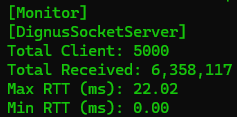
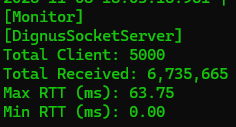
성능 속도 결과 변경

diff --git a/TestClient/Program.cs b/TestClient/Program.cs
@@ -64,7 +64,7 @@ namespace EchoClient
                 {
                     client.Close();
                 }
-                Monitor.Instance.PrintEcho("DignusSocketServer");
+                Monitor.Instance.PrintEcho(ServerName);
             }
 
         }
@@ -101,8 +101,11 @@ namespace EchoClient
             {
                 client.Close();
             }
-            Monitor.Instance.Print("DignusSocketServer");
+            Monitor.Instance.Print(ServerName);
         }
+
+        private const string ServerName = "DignusSocketServer";
+
         static void Main(string[] args)
         {
             LogBuilder.Configuration(LogConfigXmlReader.Load($"{AppContext.BaseDirectory}DignusLog.config"));
@@ -111,8 +114,8 @@ namespace EchoClient
             AppDomain.CurrentDomain.UnhandledException += CurrentDomain_UnhandledException;
 
             ProtocolHandlerMapper<EchoHandler, string>.BindProtocol<SCProtocol>();
-            SingleBechmark();
-            //ServerBechmark();
+            //SingleBechmark();
+            ServerBechmark();
 
             Console.ReadLine();
         }

diff --git a/DignusSocketServer/Program.cs b/DignusSocketServer/Program.cs
@@ -18,7 +18,7 @@ namespace DignusEchoServer
             LogBuilder.Configuration(LogConfigXmlReader.Load($"{AppContext.BaseDirectory}DignusLog.config"));
             LogBuilder.Build();
 
-            var sessionInitializer = new SessionConfiguration(EchoSetupFactory);
+            var sessionInitializer = new SessionConfiguration(PacketHandlerSetupFactory);
             sessionInitializer.SocketOption.SendBufferSize = 65536;
             sessionInitializer.SocketOption.MaxPendingSendBytes = int.MaxValue;
             EchoServer echoServer = new(sessionInitializer);
@@ -38,7 +38,7 @@ namespace DignusEchoServer
         {
             EchoHandler handler = new();
 
-            PacketSerializer packetSerializer = new(handler);
+            PacketProcessor packetSerializer = new(handler);
 
             return new SessionSetup(
                     packetSerializer,

diff --git a/DignusSocketServer/Handler/EchoHandler.cs b/DignusSocketServer/Handler/EchoHandler.cs
@@ -18,13 +18,13 @@ namespace DignusEchoServer.Handler
         public void Process(EchoMessage echo)
         {
             var body = JsonSerializer.Serialize(echo);
-            _session.Send(new Packet((int)SCProtocol.EchoMessageResponse, body));
+            _session.SendAsync(new Packet((int)SCProtocol.EchoMessageResponse, body));
         }
 
         public void OtherMessage(OtherMessage otherMessage)
         {
             var body = JsonSerializer.Serialize(otherMessage);
-            _session.Send(new Packet((int)SCProtocol.OtherMessageResponse, body));
+            _session.SendAsync(new Packet((int)SCProtocol.OtherMessageResponse, body));
         }
 
         public void SetSession(ISession session)

diff --git a/DignusSocketServer/Processor/PacketProcessor.cs b/DignusSocketServer/Processor/PacketProcessor.cs
@@ -8,7 +8,7 @@ using System.Text;
 
 namespace DignusEchoServer.Serializer
 {
-    internal class PacketSerializer(EchoHandler echoHandler) : PacketHandlerBase, IPacketSerializer
+    internal class PacketProcessor(EchoHandler echoHandler) : PacketHandlerBase, IPacketSerializer
     {
         private const int HeaderSize = sizeof(int) * 2;
         private const int SizeToInt = sizeof(int);

diff --git a/TestClient/Handler/EchoHandler.cs b/TestClient/Handler/EchoHandler.cs
@@ -59,7 +59,7 @@ namespace EchoClient.Handler
             });
 
             _lastSendTime = DateTime.UtcNow;
-            session.Send(new Packet((int)CSProtocol.EchoMessage, body));
+            session.SendAsync(new Packet((int)CSProtocol.EchoMessage, body));
         }
         public void SetSession(ISession session)
         {

diff --git a/README.md b/README.md
@@ -61,8 +61,8 @@ https://www.nuget.org/packages/Dignus.Sockets
 | 항목 | DignusSocketServer | DotNetty | SuperSocket 2.0 |
 |:---|:---|:---|:---|
 | Total Clients | 5000 | 5000 | 5000 |
-| Total Received | 6,358,117 | 5,426,823 | 3,191,922 |
-| Max RTT (ms) | 22.02 | 67.61 | 11.72 |
+| Total Received | 6,735,665 | 5,426,823 | 3,191,922 |
+| Max RTT (ms) | 63.75 | 67.61 | 11.72 |
 | Min RTT (ms) | 0.00 | 0.00 | 0.00 |
 
 ---
@@ -72,8 +72,8 @@ https://www.nuget.org/packages/Dignus.Sockets
 | 항목 | DignusSocketServer | DotNetty | SuperSocket 2.0 |
 |:---|:---|:---|:---|
 | Total Clients | 5000 | 5000 | 5000 |
-| Total Received | 6,607,902 | 5,836,706 | 3,223,877 |
-| Max RTT (ms) | 14.99 | 77.93 | 11.17 |
+| Total Received | 6,921,356 | 5,836,706 | 3,223,877 |
+| Max RTT (ms) | 23.55 | 77.93 | 11.17 |
 | Min RTT (ms) | 0.00 | 0.00 | 0.01 |
 
 ---
@@ -83,8 +83,8 @@ https://www.nuget.org/packages/Dignus.Sockets
 | 항목 | DignusSocketServer (초기) | DignusSocketServer (웜업 후) | DotNetty (초기) | DotNetty (웜업 후) | SuperSocket 2.0 (초기) | SuperSocket 2.0 (웜업 후) |
 |:---|:---|:---|:---|:---|:---|:---|
 | Total Clients | 5000 | 5000 | 5000 | 5000 | 5000 | 5000 |
-| Total Received | 6,358,117 | 6,607,902 | 5,426,823 | 5,836,706 | 3,191,922 | 3,223,877 |
-| Max RTT (ms) | 22.02 | 14.99 | 67.61 | 77.93 | 11.72 | 11.17 |
+| Total Received | 6,735,665 | 6,921,356 | 5,426,823 | 5,836,706 | 3,191,922 | 3,223,877 |
+| Max RTT (ms) | 63.75 | 23.55 | 67.61 | 77.93 | 11.72 | 11.17 |
 | Min RTT (ms) | 0.00 | 0.00 | 0.00 | 0.00 | 0.00 | 0.01 |
 
 ---
@@ -149,8 +149,8 @@ It is designed to be lightweight, efficient, and easily extensible.
 | Item | DignusSocketServer | DotNetty | SuperSocket 2.0 |
 |:---|:---|:---|:---|
 | Total Clients | 5000 | 5000 | 5000 |
-| Total Received | 6,358,117 | 5,426,823 | 3,191,922 |
-| Max RTT (ms) | 22.02 | 67.61 | 11.72 |
+| Total Received | 6,735,665 | 5,426,823 | 3,191,922 |
+| Max RTT (ms) | 63.75 | 67.61 | 11.72 |
 | Min RTT (ms) | 0.00 | 0.00 | 0.00 |
 
 ---
@@ -160,8 +160,8 @@ It is designed to be lightweight, efficient, and easily extensible.
 | Item | DignusSocketServer | DotNetty | SuperSocket 2.0 |
 |:---|:---|:---|:---|
 | Total Clients | 5000 | 5000 | 5000 |
-| Total Received | 6,607,902 | 5,836,706 | 3,223,877 |
-| Max RTT (ms) | 14.99 | 77.93 | 11.17 |
+| Total Received | 6,921,356 | 5,836,706 | 3,223,877 |
+| Max RTT (ms) | 23.55 | 77.93 | 11.17 |
 | Min RTT (ms) | 0.00 | 0.00 | 0.01 |
 
 ---
@@ -171,8 +171,8 @@ It is designed to be lightweight, efficient, and easily extensible.
 | Item | DignusSocketServer (Cold) | DignusSocketServer (Warm-up) | DotNetty (Cold) | DotNetty (Warm-up) | SuperSocket 2.0 (Cold) | SuperSocket 2.0 (Warm-up) |
 |:---|:---|:---|:---|:---|:---|:---|
 | Total Clients | 5000 | 5000 | 5000 | 5000 | 5000 | 5000 |
-| Total Received | 6,358,117 | 6,607,902 | 5,426,823 | 5,836,706 | 3,191,922 | 3,223,877 |
-| Max RTT (ms) | 22.02 | 14.99 | 67.61 | 77.93 | 11.72 | 11.17 |
+| Total Received | 6,735,665 | 6,921,356 | 5,426,823 | 5,836,706 | 3,191,922 | 3,223,877 |
+| Max RTT (ms) | 63.75 | 23.55 | 67.61 | 77.93 | 11.72 | 11.17 |
 | Min RTT (ms) | 0.00 | 0.00 | 0.00 | 0.00 | 0.00 | 0.01 |
 
 # 🖼 Test Result Captures (Cold Start)
